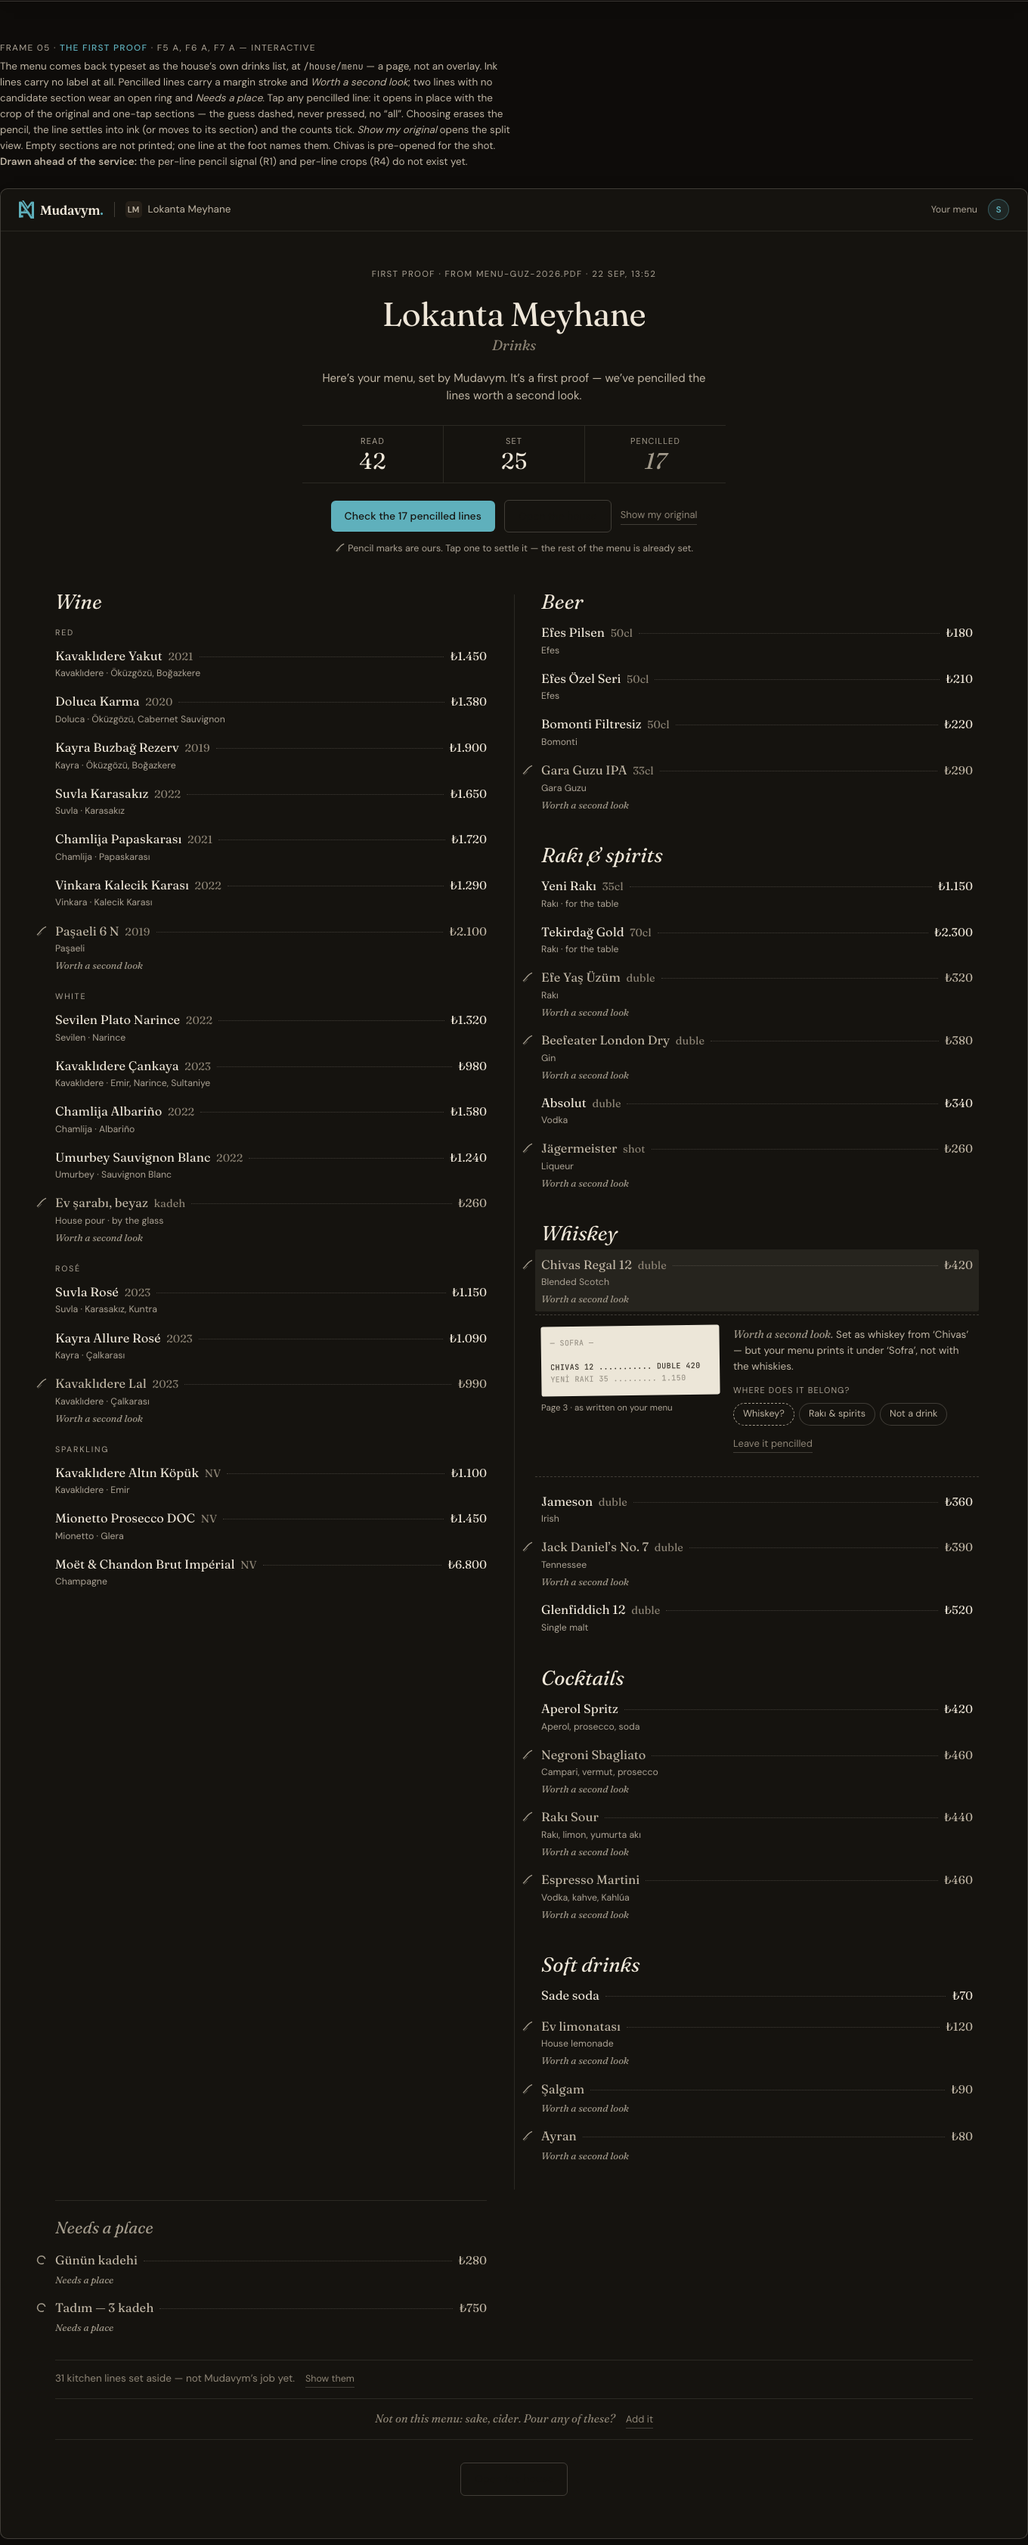
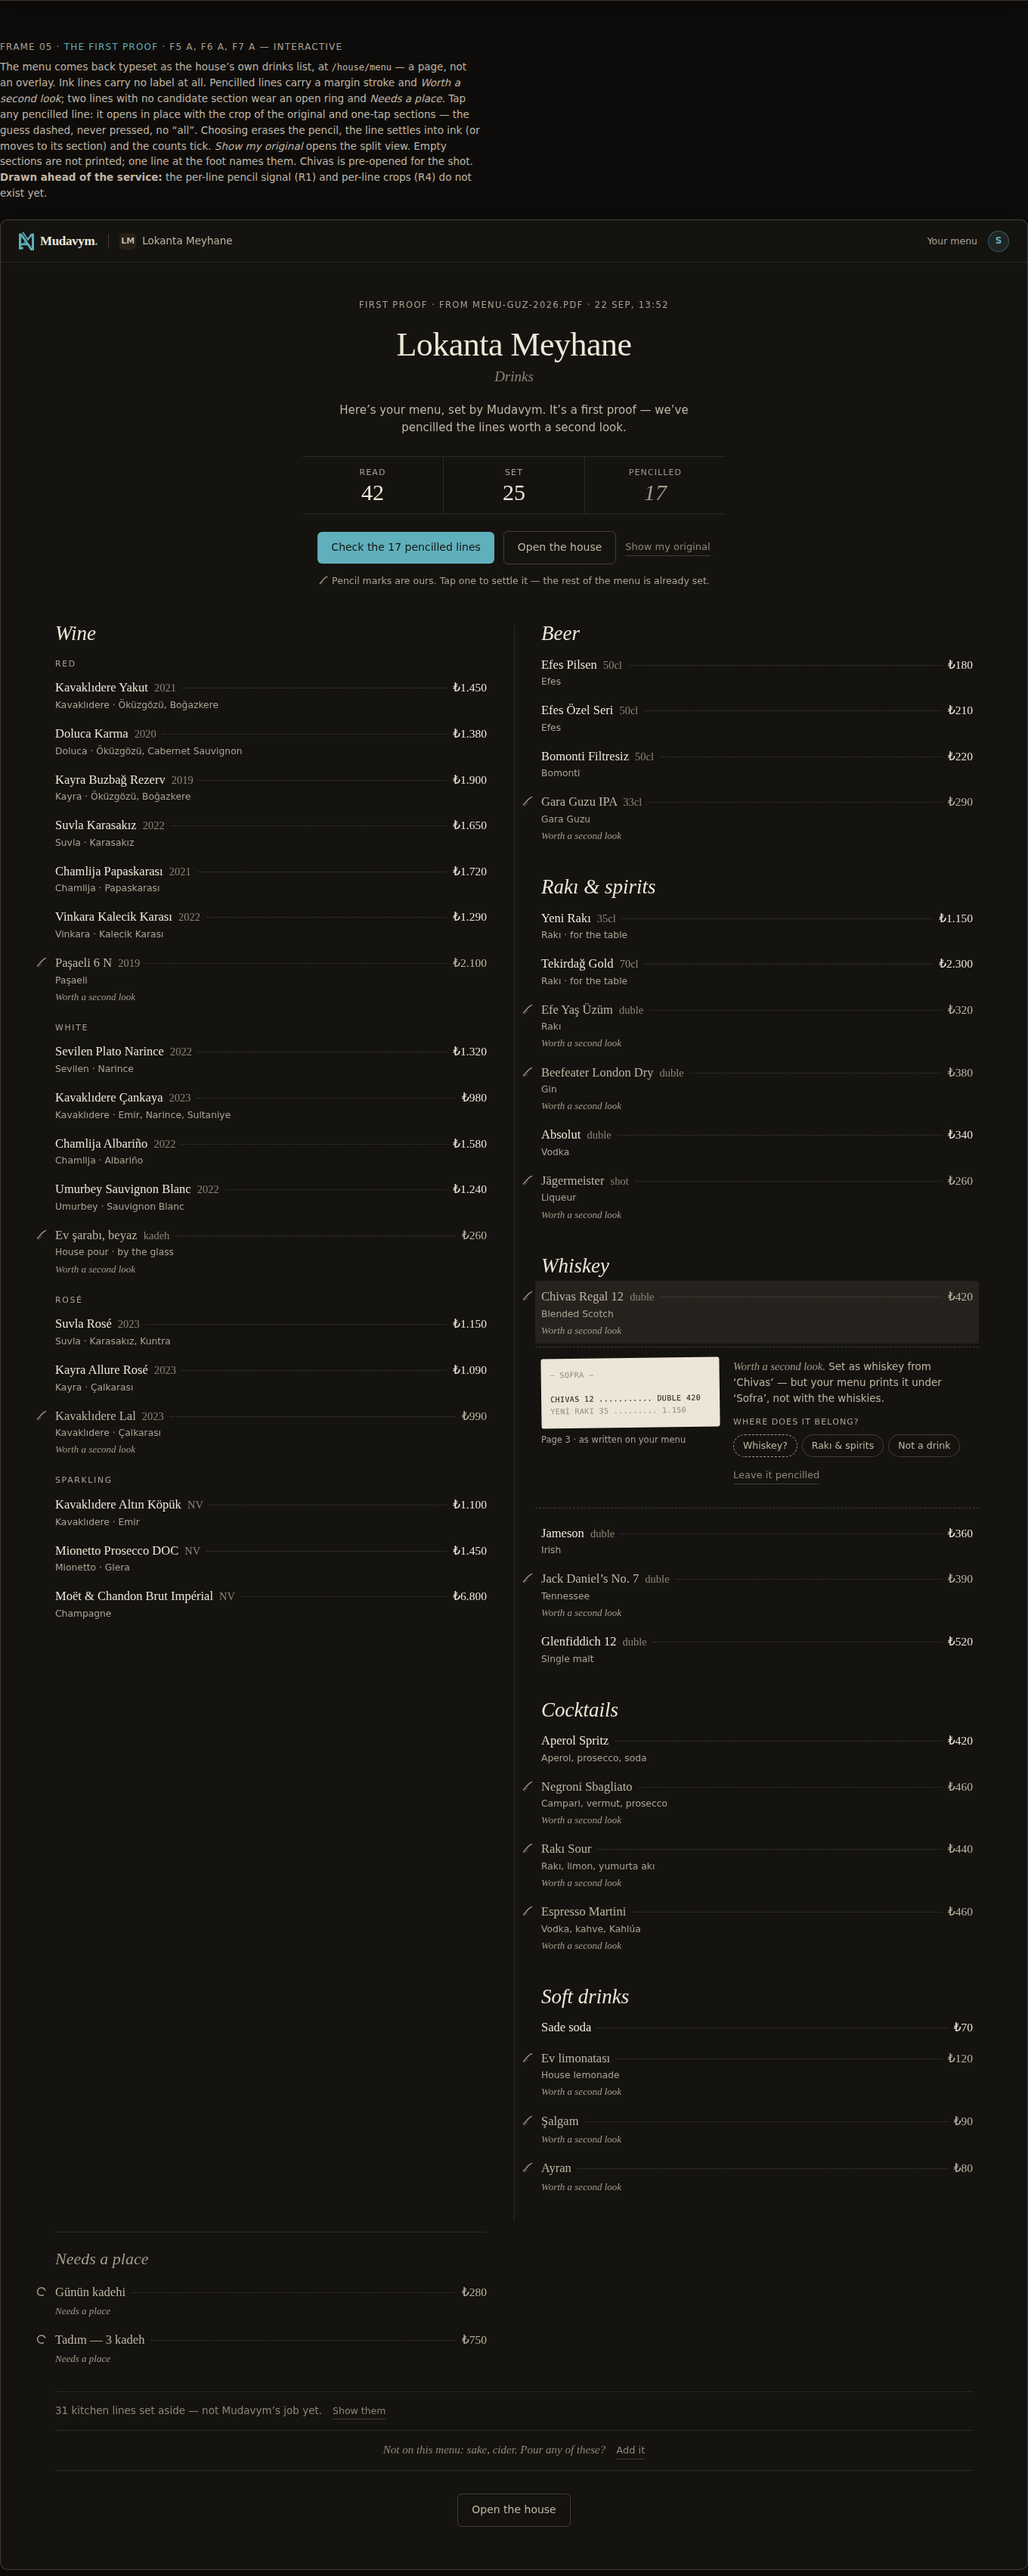
docs(sketch-123): shoot.mjs uses @playwright/test; quiet press readable on charcoal
Founder answer 2026-09-29, verbatim pick: "Use @playwright/test, fix label
(Recommended)" -- "Match sketch 119 (no new dependency) and fix the
invisible label in the drawing now."

shoot.mjs: the bare 'playwright' import resolves nowhere under pnpm (only
@playwright/test is declared, in apps/web). It now resolves @playwright/test
through apps/web/package.json with createRequire, as sketch 119's
measure-paper.mjs does, but repo-relative instead of a laptop path.
PW_CHROMIUM optionally names a chromium binary.

index.html: `body[data-ground='charcoal'] .press { color: #15130F }`
(0,2,1) outranked `.press[data-quiet]` (0,2,0), painting the transparent
quiet press's label in the ground colour. The snapshot carried a patch
rule re-asserting --ink-2 on charcoal, but it also outranked the quiet
hover, and the committed f5-charcoal shot predates it. The charcoal rule
now excludes quiet presses (:not([data-quiet])) and the patch rule is
gone: the label is --ink-2 #C0B6A5 on --paper-0 #15130F, 9.25:1 (AA),
hover --seal #5FB0BC at 7.44:1.

Only f5-charcoal-1440.png is re-shot; every other frame is paper-ground
and unaffected, so the snapshot's shots are kept.

Claude-Session: https://claude.ai/code/session_01GYea8ghmHSxrpWCjmRjXoq

diff --git a/.planning/sketches/123-first-proof/index.html b/.planning/sketches/123-first-proof/index.html
@@ -123,10 +123,11 @@ h3 { font-family: var(--serif); font-weight: 400; font-size: 16.5px; margin: 0; 
 
 /* --- buttons ------------------------------------------------------- */
 .press { cursor: pointer; font-size: 14px; font-weight: 500; background: var(--seal); color: #fffdf8; border: 0; border-radius: 6px; padding: 10px 18px; }
-body[data-ground='charcoal'] .press { color: #15130F; }
+/* charcoal: the filled seal press takes dark ink; the quiet press is excluded so it keeps
+   --ink-2 (#C0B6A5 on --paper-0 #15130F, 9.25:1, AA; hover --seal #5FB0BC is 7.44:1) and its seal hover */
+body[data-ground='charcoal'] .press:not([data-quiet]) { color: #15130F; }
 .press:hover { background: var(--seal-deep); }
 .press[data-quiet] { background: transparent; color: var(--ink-2); border: 1px solid var(--rule-2); font-weight: 400; }
-body[data-ground='charcoal'] .press[data-quiet] { color: var(--ink-2); }
 .press[data-quiet]:hover { color: var(--seal); border-color: var(--seal-ring); }
 .link { background: none; border: 0; padding: 0 0 1px; cursor: pointer; color: var(--ink-3); font-size: 13px; border-bottom: 1px solid var(--rule-2); }
 .link:hover { color: var(--seal); border-bottom-color: var(--seal-ring); }
